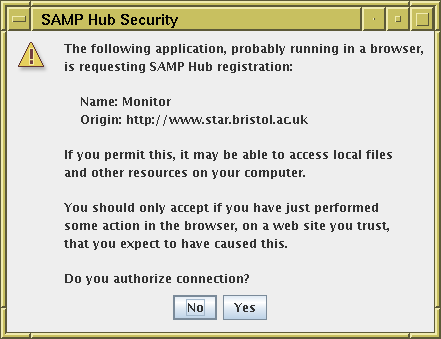
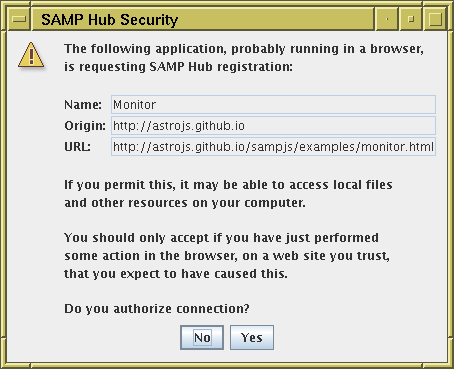
Fix web profile GUI so it doesn't get too wide
The part of the Web Profile popup dialogue that displays client
Name, Origin and URL is now limited in width, so the popup window
doesn't get ridiculously wide.  You can still scroll to see the
whole of long entries by clicking on the text fields and hitting
the right arrow, though there is no visual feedback for this so
it's not obvious.

diff --git a/src/java/org/astrogrid/samp/web/HubSwingClientAuthorizer.java b/src/java/org/astrogrid/samp/web/HubSwingClientAuthorizer.java
@@ -1,8 +1,12 @@
 package org.astrogrid.samp.web;
 
 import java.awt.Component;
+import java.awt.Dimension;
 import java.awt.GraphicsEnvironment;
+import java.awt.GridBagConstraints;
+import java.awt.GridBagLayout;
 import java.awt.HeadlessException;
+import java.awt.Insets;
 import java.awt.Window;
 import java.net.MalformedURLException;
 import java.net.URL;
@@ -20,6 +24,8 @@ import javax.swing.JComponent;
 import javax.swing.JDialog;
 import javax.swing.JLabel;
 import javax.swing.JOptionPane;
+import javax.swing.JPanel;
+import javax.swing.JTextField;
 import org.astrogrid.samp.httpd.HttpServer;
 
 /**
@@ -32,6 +38,7 @@ import org.astrogrid.samp.httpd.HttpServer;
 public class HubSwingClientAuthorizer implements ClientAuthorizer {
 
     private final Component parent_;
+    private static final int MAX_POPUP_WIDTH = 500;
     private static final Logger logger_ =
         Logger.getLogger( HubSwingClientAuthorizer.class.getName() );
 
@@ -140,15 +147,46 @@ public class HubSwingClientAuthorizer implements ClientAuthorizer {
      */
     private JComponent createLabelledFields( Map infoMap,
                                              String undeclaredWord ) {
-        JComponent box = Box.createVerticalBox();
+        GridBagLayout layer = new GridBagLayout();
+        JComponent box = new JPanel( layer ) {
+            public Dimension getPreferredSize() {
+                Dimension size = super.getPreferredSize();
+                return new Dimension( Math.min( size.width, MAX_POPUP_WIDTH ),
+                                      size.height );
+            }
+        };
+        GridBagConstraints keyCons = new GridBagConstraints();
+        GridBagConstraints valCons = new GridBagConstraints();
+        keyCons.gridy = 0;
+        valCons.gridy = 0;
+        keyCons.gridx = 0;
+        valCons.gridx = 1;
+        keyCons.anchor = GridBagConstraints.WEST;
+        valCons.anchor = GridBagConstraints.WEST;
+        keyCons.fill = GridBagConstraints.NONE;
+        valCons.fill = GridBagConstraints.HORIZONTAL;
+        keyCons.weighty = 1;
+        valCons.weighty = 1;
+        keyCons.weightx = 0;
+        valCons.weightx = 1;
+        valCons.insets = new Insets( 1, 1, 1, 1 );
+
+        JComponent stack = Box.createVerticalBox();
         for ( Iterator it = infoMap.keySet().iterator(); it.hasNext(); ) {
             String key = (String) it.next();
             String value = (String) infoMap.get( key );
-            String txt = key + ": "
-                       + ( value == null ? undeclaredWord : value );
-            box.add( new JLabel( txt ) );
+            String valtxt = value == null ? undeclaredWord : value;
+            JComponent keyComp = new JLabel( key + ": " );
+            JTextField valueField = new JTextField( valtxt );
+            valueField.setEditable( false );
+            layer.setConstraints( keyComp, keyCons );
+            layer.setConstraints( valueField, valCons );
+            box.add( keyComp );
+            box.add( valueField );
+            keyCons.gridy++;
+            valCons.gridy++;
         }
-        box.setBorder( BorderFactory.createEmptyBorder( 0, 20, 0, 0 ) );
+        box.setBorder( BorderFactory.createEmptyBorder( 0, 0, 0, 0 ) );
         return box;
     }
 
